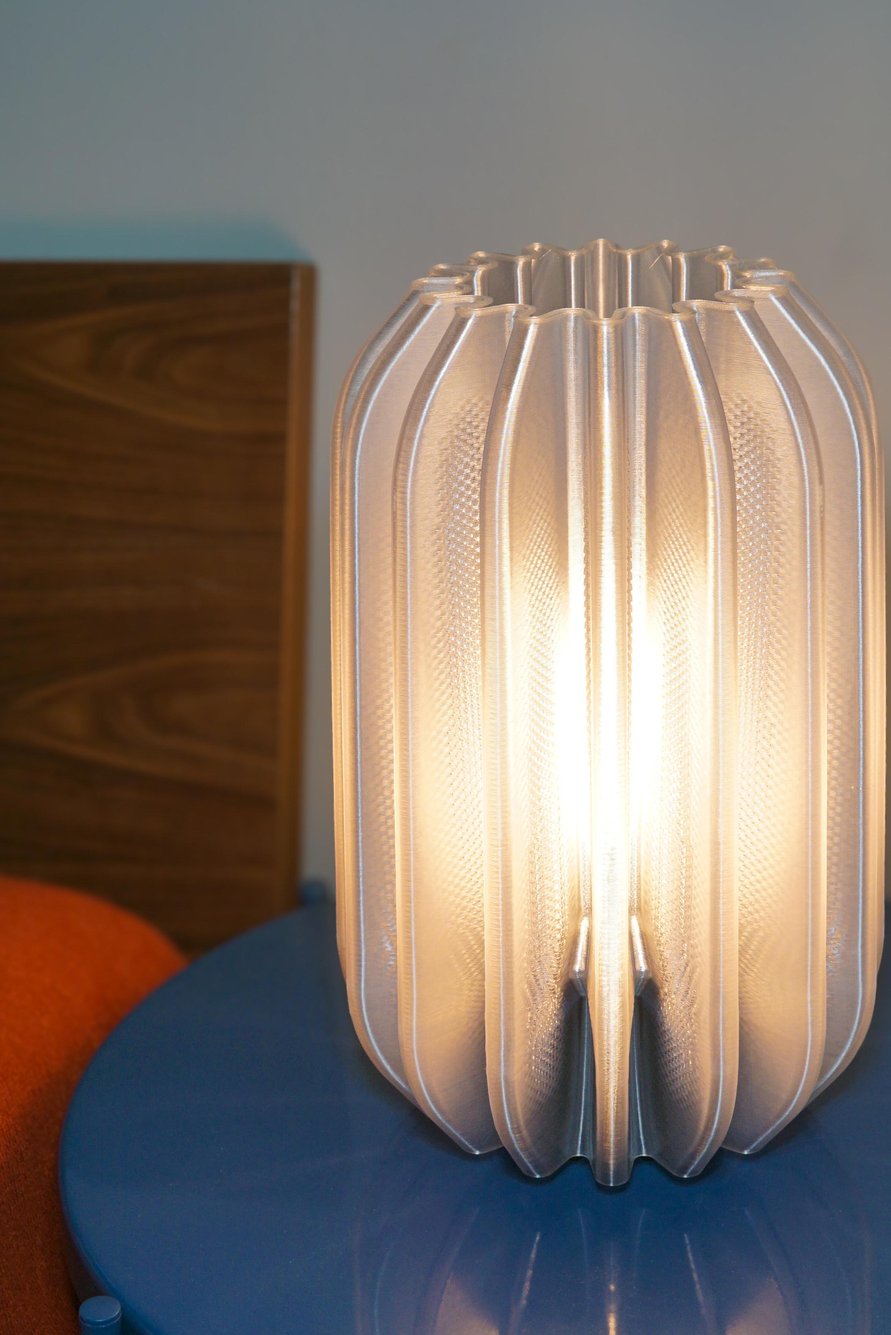
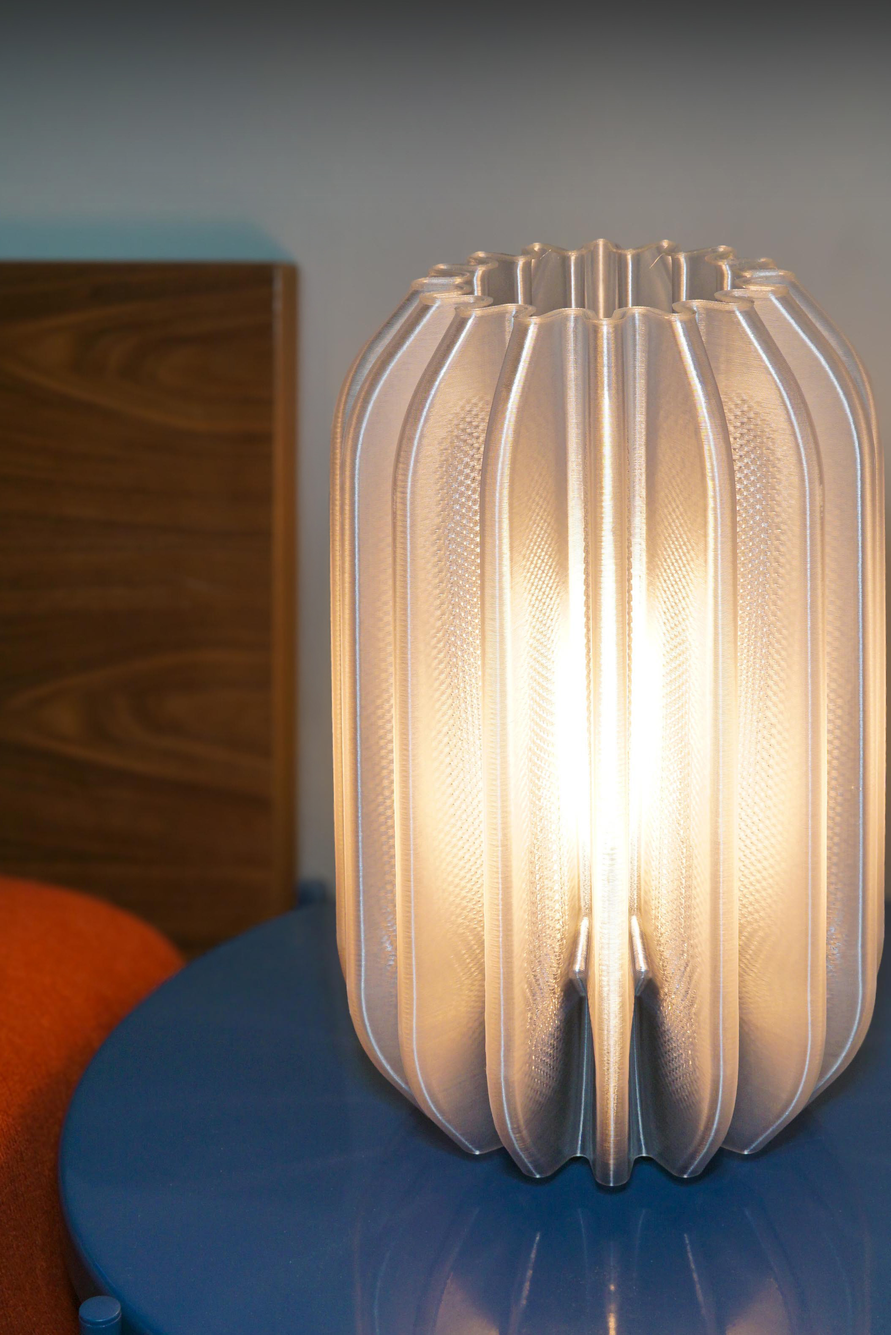
touch-ups

Changed region(s): [[0.0, 0.0, 1.0, 0.0931], [0.3082, 0.1861, 0.3698, 0.6204]]

diff --git a/detroit-lights.html b/detroit-lights.html
@@ -20,7 +20,7 @@
 
     <!-- Hero image -->
     <section class="relative bg-black overflow-hidden" style="height:60vh">
-      <img src="assets/204dfe37854bd8dd87119ad0e887bfd683da7398.jpg" alt="Detroit lighting" class="w-full h-full object-cover opacity-80" style="object-position:center 35%" />
+      <img src="assets/92ce76be27045bd0283d04f5ae520db1c5684f4d.jpg" alt="Detroit lighting" class="w-full h-full object-cover opacity-80" style="object-position:center 35%" />
     </section>
 
     <!-- Products -->
@@ -45,7 +45,7 @@
               <a href="detroit-pendant.html?style=A" class="group">
                 <div class="relative bg-black/5 mb-6 overflow-hidden" style="aspect-ratio:3/4">
                   <img src="assets/ca93ba95ec2321cecc3f6971cc7b2456a99f48fc.jpg" alt="Detroit Pendant A" class="absolute inset-0 w-full h-full object-cover transition-opacity duration-500 group-hover:opacity-0" />
-                  <img src="assets/92ce76be27045bd0283d04f5ae520db1c5684f4d.jpg" alt="Detroit Pendant A lit" class="absolute inset-0 w-full h-full object-cover opacity-0 group-hover:opacity-100 transition-opacity duration-500" />
+                  <img src="assets/177f5475887bf8810ce02749613cac0cc9b75a4b.jpg" alt="Detroit Pendant A lit" class="absolute inset-0 w-full h-full object-cover opacity-0 group-hover:opacity-100 transition-opacity duration-500" />
                 </div>
                 <h4 class="text-base tracking-tight mb-1">Detroit Pendant A</h4>
                 <p class="text-sm text-black/60 mb-4">size & color options</p>

diff --git a/about.html b/about.html
@@ -30,7 +30,7 @@
             </div>
           </div>
           <div class="aspect-[4/5] overflow-hidden bg-stone-100">
-            <img src="assets/29da261fae11e8815506ffcaee809b2fcbd34bfe.jpg" alt="Voldt product" class="w-full h-full object-cover" />
+            <img src="assets/voldtstudio.jpg" alt="VOLDT studio" class="w-full h-full object-cover" />
           </div>
         </div>
       </div>
@@ -148,7 +148,7 @@
                 <img src="assets/ap25_2.jpg" alt="Material detail" class="w-full h-full object-cover" />
               </div>
               <div class="aspect-square overflow-hidden bg-stone-800">
-                <img src="assets/5f79de34794c0f08724b2385b20da96c964f49bf.jpg" alt="Material detail" class="w-full h-full object-cover" style="object-position:center bottom" />
+                <img src="assets/13.jpg" alt="Material detail" class="w-full h-full object-cover" />
               </div>
             </div>
             <div class="aspect-[16/10] overflow-hidden bg-stone-800">

diff --git a/collections.html b/collections.html
@@ -56,7 +56,7 @@
             <a href="polyframes.html" class="inline-flex items-center gap-3 bg-black text-white px-10 py-5 hover:bg-[#C8922A] transition-all text-xs tracking-[0.15em] uppercase">View Products <svg xmlns="http://www.w3.org/2000/svg" width="16" height="16" viewBox="0 0 24 24" fill="none" stroke="currentColor" stroke-width="2" stroke-linecap="round" stroke-linejoin="round"><line x1="5" y1="12" x2="19" y2="12"/><polyline points="12 5 19 12 12 19"/></svg></a>
           </div>
           <div class="lg:order-1 relative aspect-[3/4] bg-black/5 overflow-hidden">
-            <img src="assets/12.jpg" alt="PolyFrames" class="w-full h-full object-cover" />
+            <img src="assets/924258946d09fc819309fa830e3332e826f1417a.jpg" alt="PolyFrames" class="w-full h-full object-cover" />
           </div>
         </div>
 
